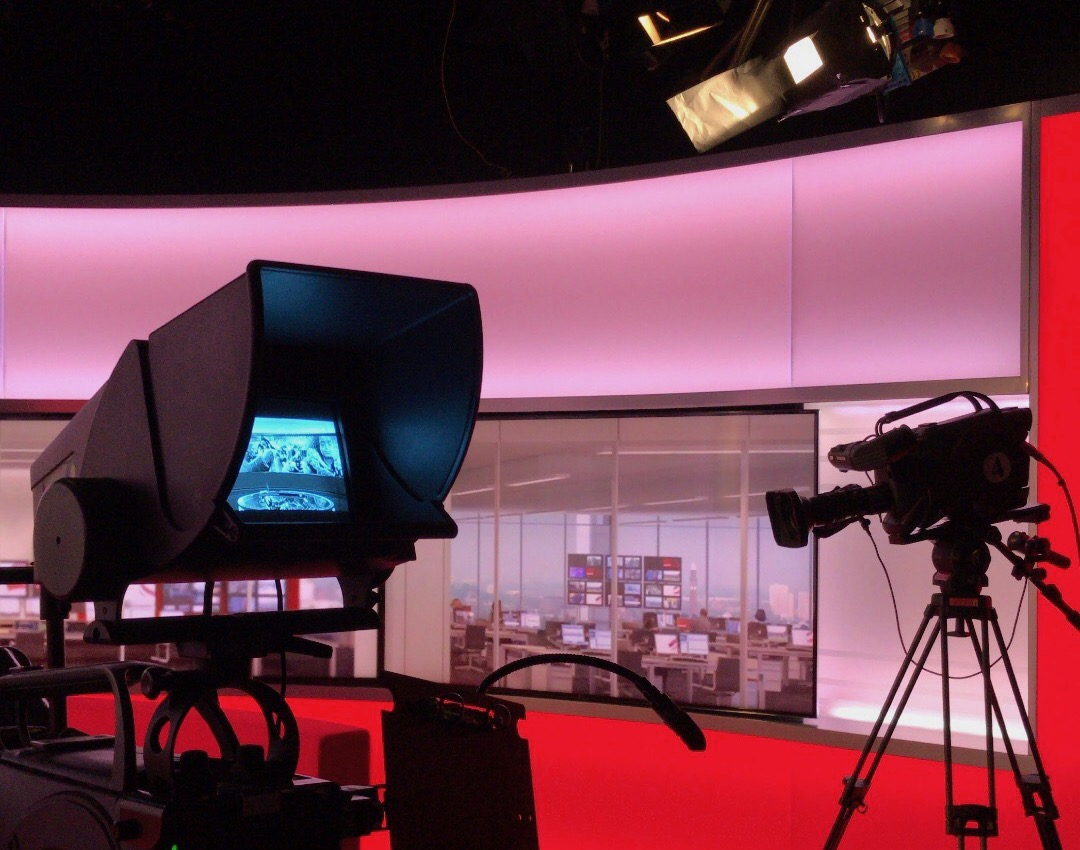
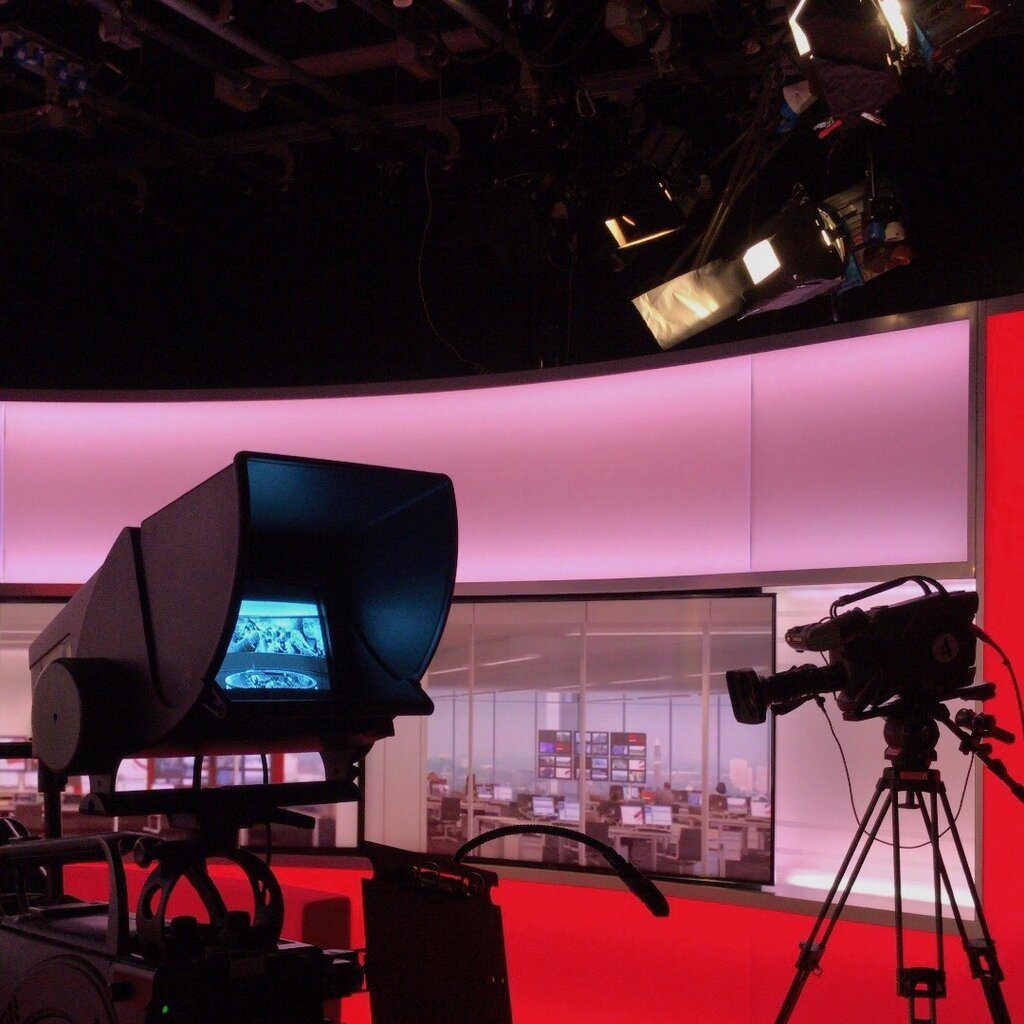
image optimisations ⚡

diff --git a/components/PictureHeader.js b/components/PictureHeader.js
@@ -1,9 +1,12 @@
+import coverAspects from "@lib/coverAspects";
+import Image from "next/image";
 import Link from "next/link";
 import Logo from "./projects/Logo";
 import Tags from "./projects/Tags";
 
 function PictureHeader({
 	pic,
+	aspect,
 	section,
 	logo,
 	subone,
@@ -22,11 +25,23 @@ function PictureHeader({
 				style={{ clip: "rect(0, auto, auto, 0)" }}
 			>
 				<div className="flex-grow sm:hidden"></div>
-				<img
+				<div
+					className={`flex-grow fixed flex sm:w-screen w-50vw sm:max-w-none sm:h-96 opacity-25 object-cover h-${height} object-left-top`}
+					style={{ backfaceVisibility: "hidden" }}
+				>
+					<Image
+						className="object-cover object-left-top"
+						src={pic}
+						priority
+						width={coverAspects[aspect].width}
+						height={coverAspects[aspect].height}
+					/>
+				</div>
+				{/* <img
 					className={`flex-grow fixed flex sm:w-screen w-50vw sm:max-w-none sm:h-96 opacity-25 object-cover h-${height} object-left-top`}
 					style={{ backfaceVisibility: "hidden" }}
 					src={pic}
-				/>
+				/> */}
 			</div>
 			<div className="col-start-1 row-start-1 m-16 mr-0 flex items-center z-10 sm:mx-4 sm:my-0 sm:row-start-2">
 				<div className="mx-16 sm:ml-4 sm:mr-0 sm:transform sm:-translate-y-12">

diff --git a/components/work/Post.js b/components/work/Post.js
@@ -1,11 +1,19 @@
+import coverAspects from "@lib/coverAspects";
+import Image from "next/image";
 import Link from "next/link";
 
 function Post({ post, section }) {
 	return (
 		<Link href={`/${section}/${post.slug}`}>
 			<a className="flex flex-col w-80 m-8 group sm:mx-0 post">
-				<div className="flex-shrink-0 h-52 justify-center relative rounded-3xl overflow-hidden group-hover:shadow-2xl">
-					<img className="flex flex-shrink-0" src={post.image} />
+				<div className="flex flex-shrink-0 h-52 justify-center relative rounded-3xl shadow-lg overflow-hidden group-hover:shadow-2xl">
+					<Image
+						className="flex-grow object-cover"
+						priority
+						src={post.image}
+						height={coverAspects[post.aspect].height}
+						width={coverAspects[post.aspect].width}
+					/>
 				</div>
 				<div className="flex mt-6">
 					<span className="h-12 mr-6 text-5xl">{post.emoji}</span>

diff --git a/lib/coverAspects.js b/lib/coverAspects.js
@@ -1,0 +1,24 @@
+let coverAspects = {
+	"landscape-4032": {
+		width: 4032,
+		height: 3024,
+	},
+	"landscape-1920": {
+		width: 1920,
+		height: 1080,
+	},
+	"landscape-1024": {
+		width: 1024,
+		height: 768,
+	},
+	"portrait-4032": {
+		width: 3024,
+		height: 4032,
+	},
+	"square-1024": {
+		width: 1024,
+		height: 1024,
+	},
+};
+
+export default coverAspects;

diff --git a/components/projects/ProjectLayout.js b/components/projects/ProjectLayout.js
@@ -8,6 +8,7 @@ function ProjectLayout({ children, frontMatter }) {
 		<div>
 			<PictureHeader
 				pic={frontMatter.image}
+				aspect={frontMatter.aspect}
 				logo={frontMatter.logo}
 				subone="Project"
 				subtwo={frontMatter.readingTime.text}

diff --git a/pages/cnn/index.js b/pages/cnn/index.js
@@ -9,6 +9,7 @@ function CNN({ cnnPosts }) {
 		<div className="mb-32 flex flex-col">
 			<PictureHeader
 				pic="/assets/cnn/mcr.jpg"
+				aspect="landscape-1024"
 				section="cnn"
 				subone="Broadcast Engineering"
 				subtwo="2020 Placements"

diff --git a/components/work/PostLayout.js b/components/work/PostLayout.js
@@ -7,6 +7,7 @@ function PostLayout({ children, section, frontMatter }) {
 		<div>
 			<PictureHeader
 				pic={frontMatter.image}
+				aspect={frontMatter.aspect}
 				section={section}
 				subone={
 					<span className="text-white not-italic">

diff --git a/pages/bbc/index.js b/pages/bbc/index.js
@@ -8,6 +8,7 @@ function BBC({ bbcPosts }) {
 		<div className="mb-32">
 			<PictureHeader
 				pic="/assets/bbc/sound.jpeg"
+				aspect="portrait-4032"
 				section="bbc"
 				subone="Broadcast Engineering"
 				subtwo="Degree Apprenticeship"
